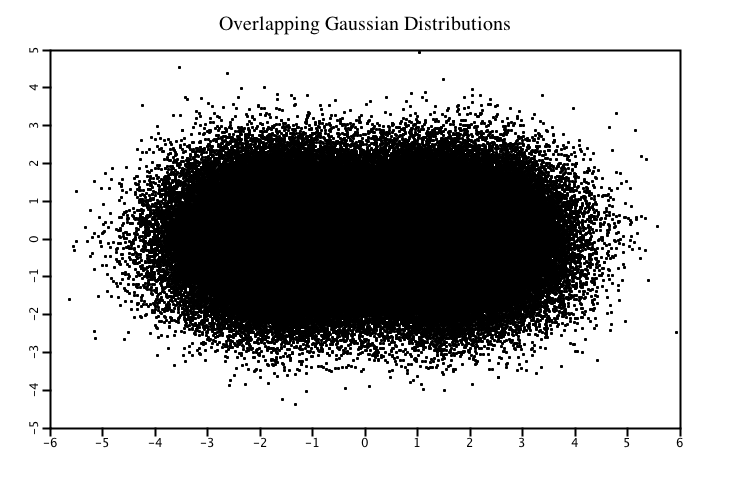
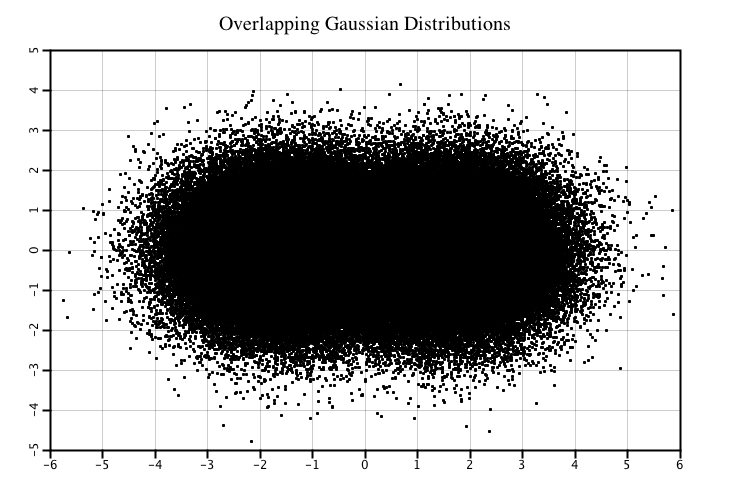
Added ability to show grid

diff --git a/src/main/paradox/Examples/Scatter_Plot.md b/src/main/paradox/Examples/Scatter_Plot.md
@@ -13,7 +13,8 @@ def main(args: Array[String]): Unit = {
   val fig = new Figure(
     xTicks = Ticks(-6 to 6), yTicks = Ticks(-5 to 5),
     domain = (-6, 6), range = (-5, 5),
-    title = "Overlapping Gaussian Distributions"
+    title = "Overlapping Gaussian Distributions",
+    showGrid = true
   )
 
   val rnd = new Random()
